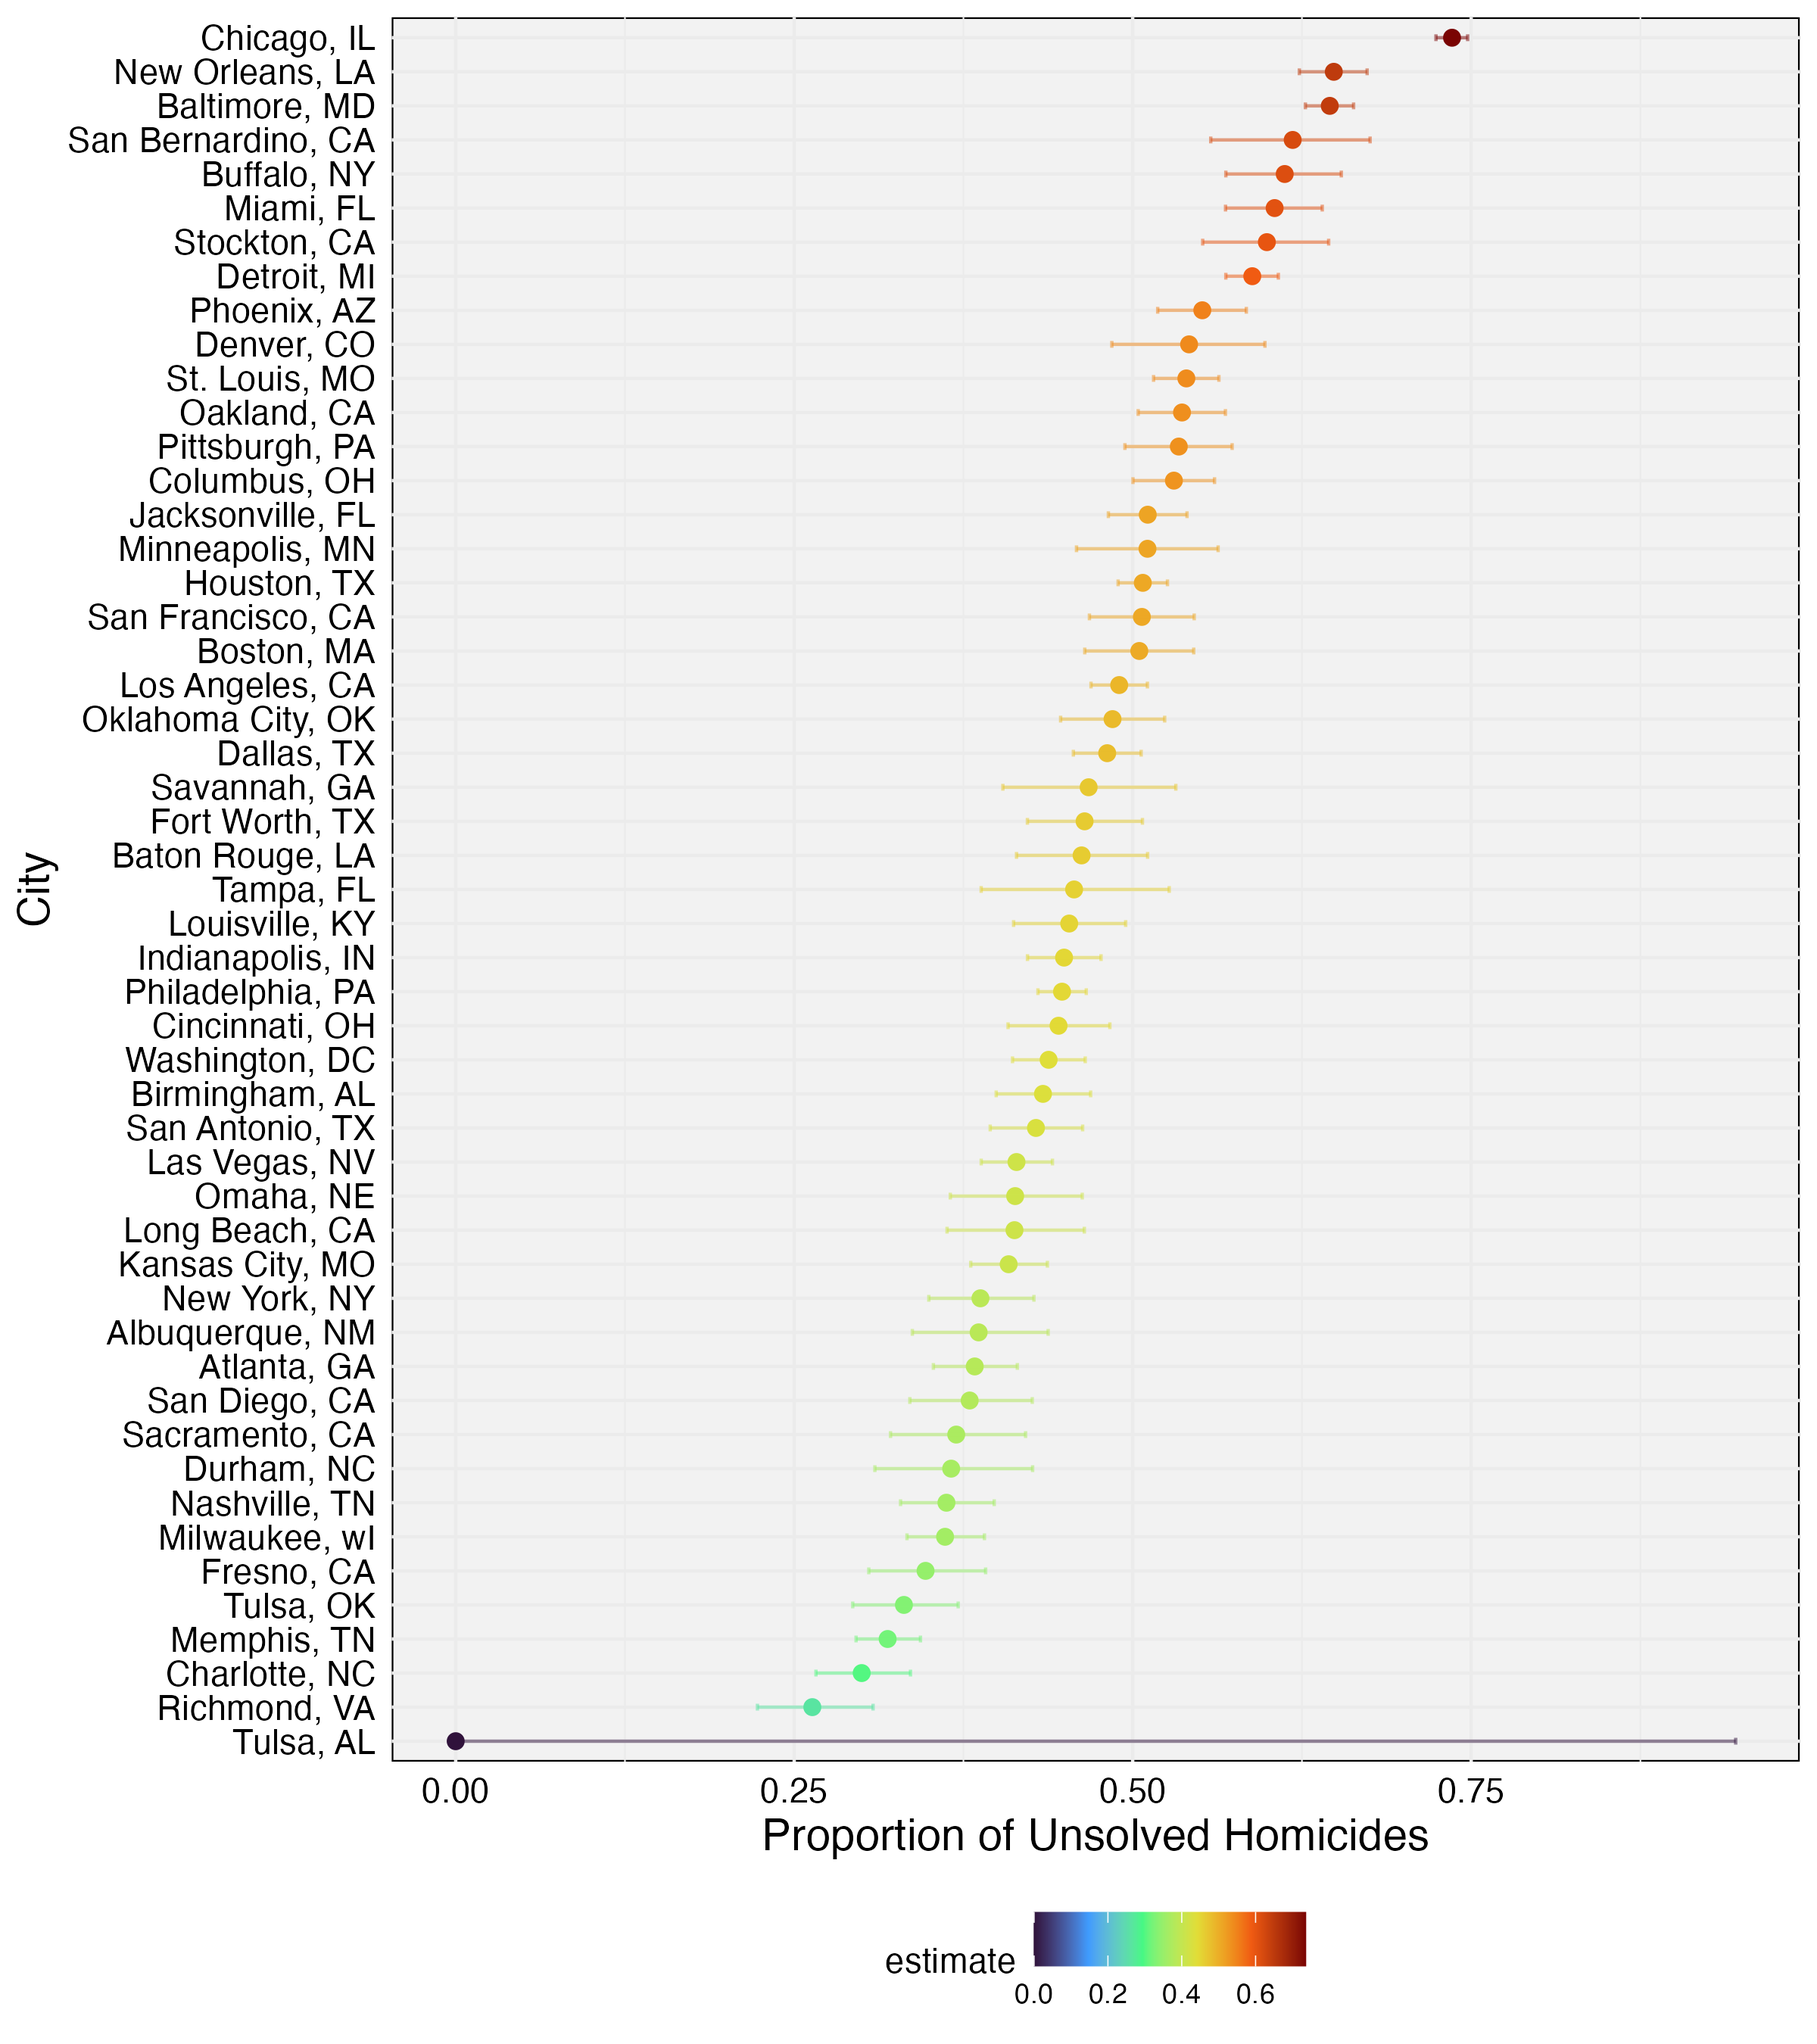
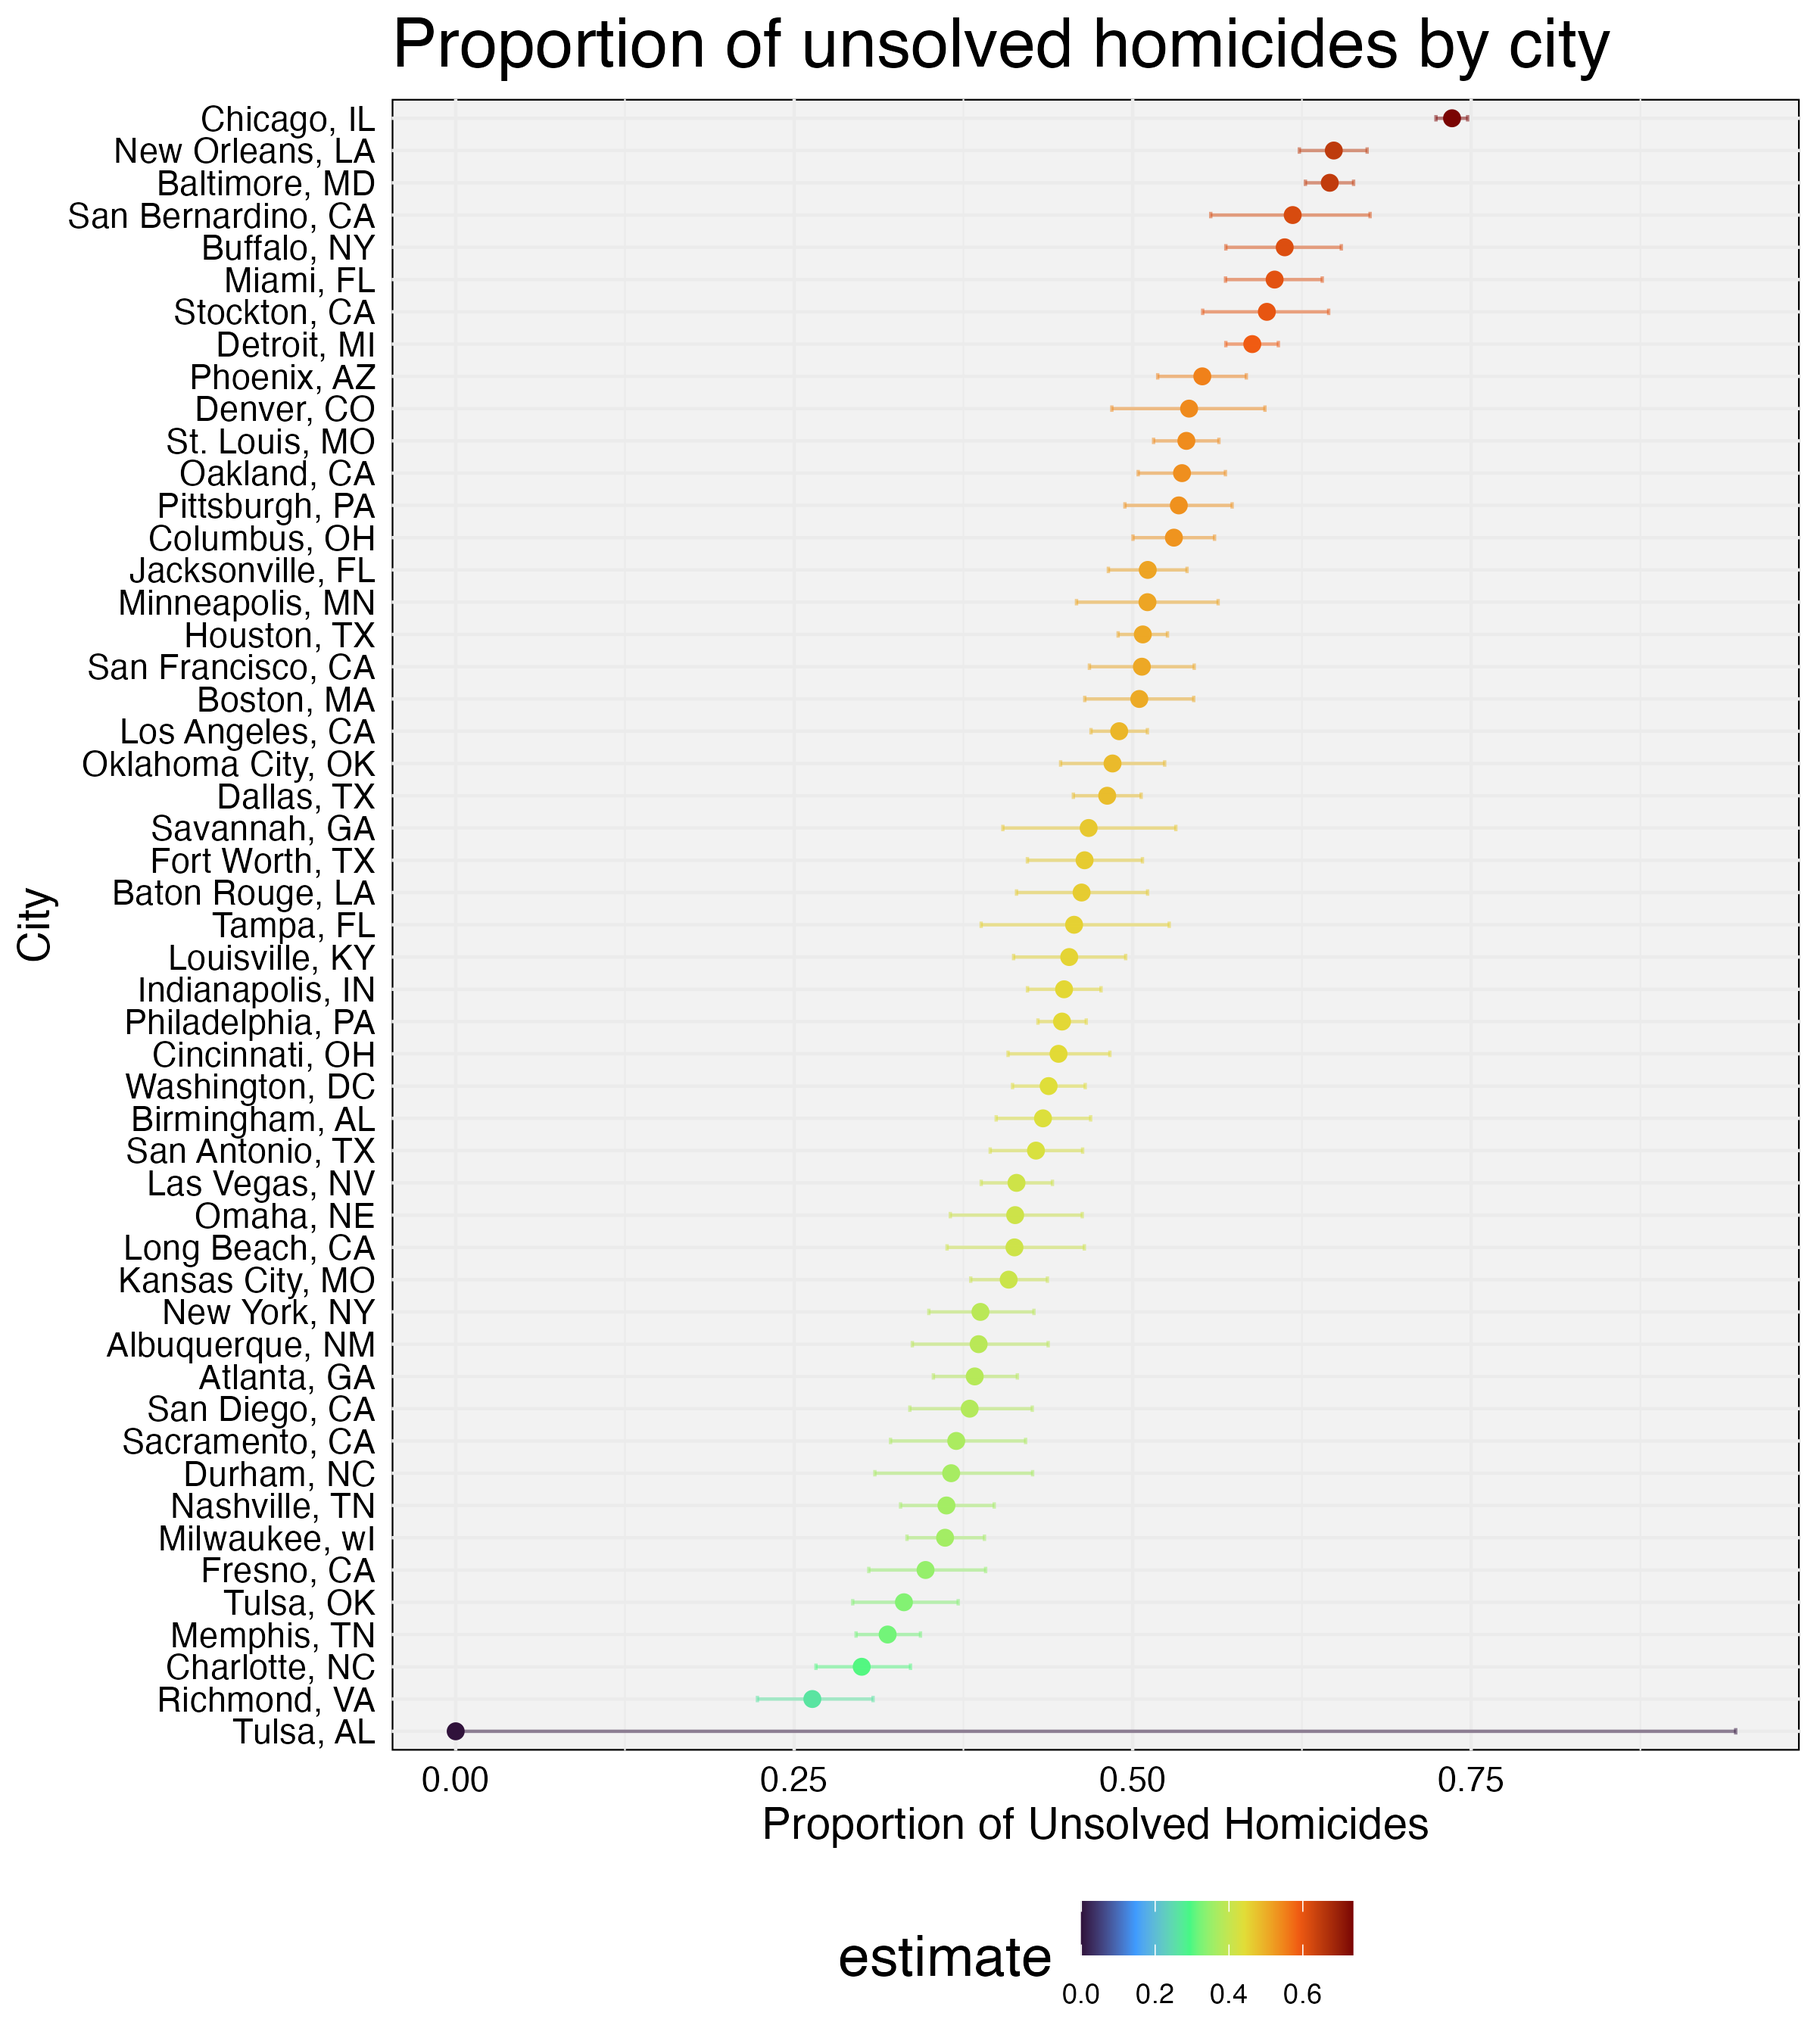
Problem 2 data upload and cleaning. Plotting P2 estimates.

Changed region(s): [[0.0312, 0.0, 0.9688, 0.9956], [0.0, 0.4044, 0.0312, 0.4667]]

diff --git a/p8105_hw5_csf2135.md b/p8105_hw5_csf2135.md
@@ -233,22 +233,31 @@ lower limits. Organize cities according to the proportion of unsolved
 homicides.**
 
 ``` r
-df_prop_unsolved  |> 
+plot_unsolved<- df_prop_unsolved  |> 
   arrange(estimate) |> 
   ggplot(aes(x = reorder(city_state, estimate), y = estimate, color = estimate)) +
     geom_point(size = 2) +
     scale_color_viridis_c(option = "turbo") +
     geom_errorbar(aes(ymin = conf.low, ymax = conf.high), width = 0.2, alpha = 0.5) +
-    labs(x = "City", y = "Proportion of Unsolved Homicides") +
+    labs(title = "Proportion of unsolved homicides by city", x = "City", y = "Proportion of Unsolved Homicides") +
     coord_flip() + 
     theme(
       panel.background = element_rect(fill = "grey95"), 
       axis.title = element_text(color = "black", size = 14), 
-      axis.text = element_text(color = "black", size = 11)
-    )
+      axis.text = element_text(color = "black", size = 11), 
+      title = element_text(color = "black", size = 18)
+    ) 
+
+plot_unsolved
 ```
 
 <img src="p8105_hw5_csf2135_files/figure-gfm/unnamed-chunk-5-1.png" width="90%" />
+
+``` r
+plot_save_path <- "hw5_plots/prop_unsolved_by_state.png"
+
+ggsave(plot_save_path, plot_unsolved, device = "png", width = 8, height = 9, units = "in", dpi = 300)
+```
 
 ### Problem 2
 
